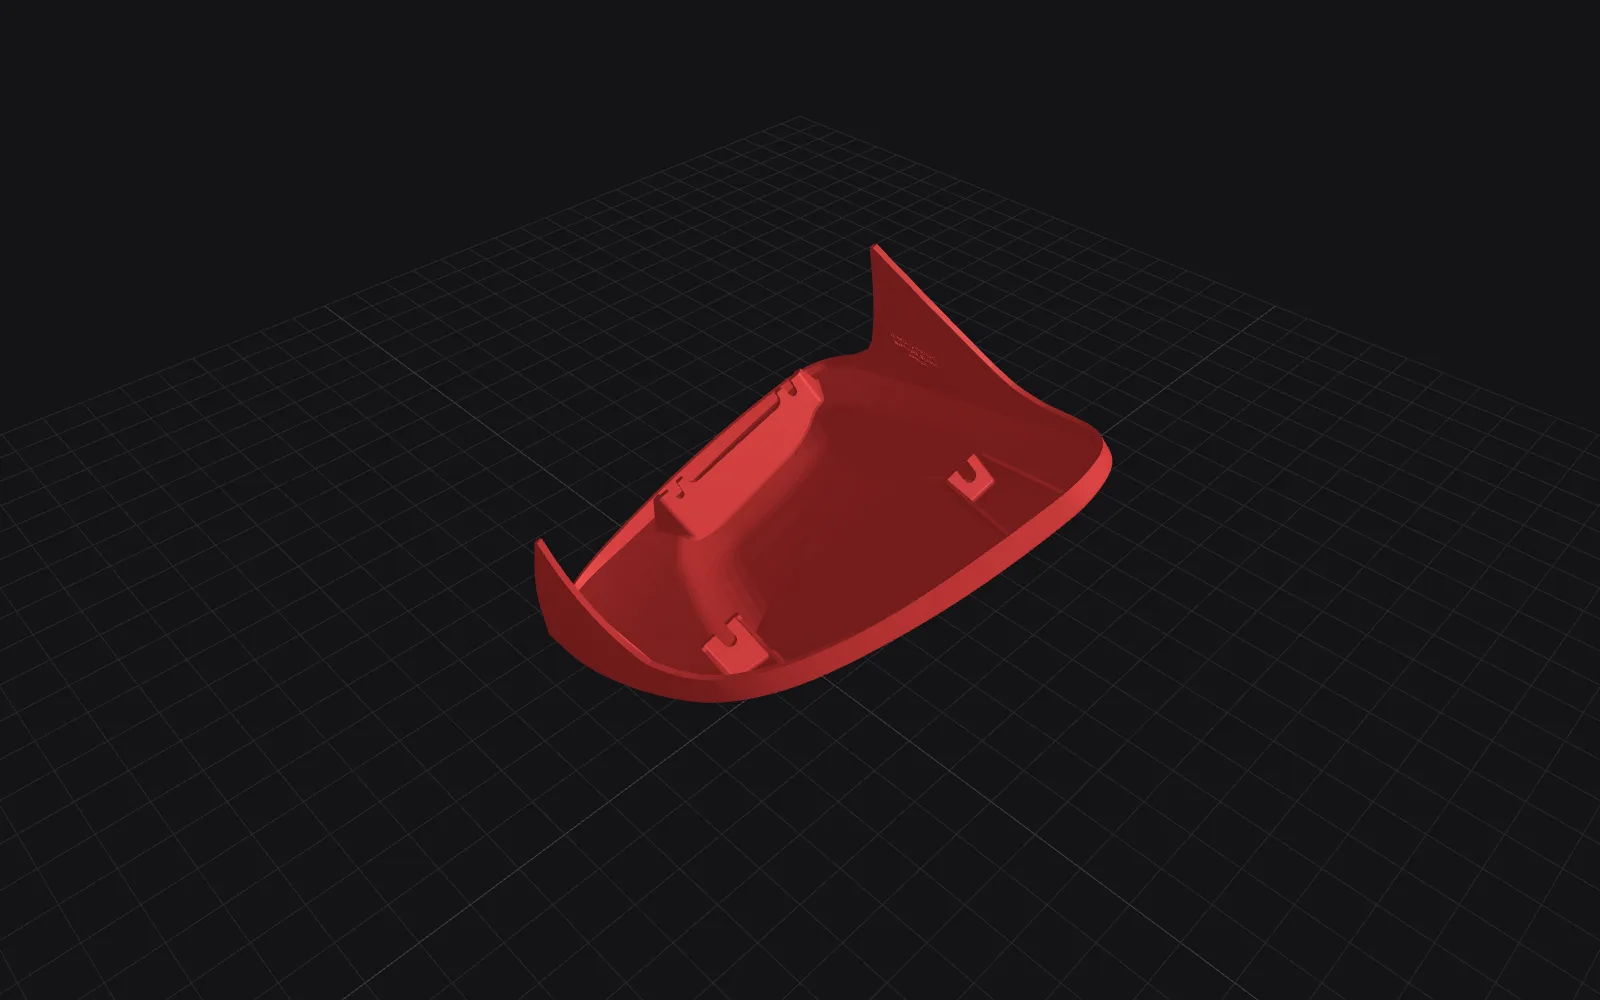
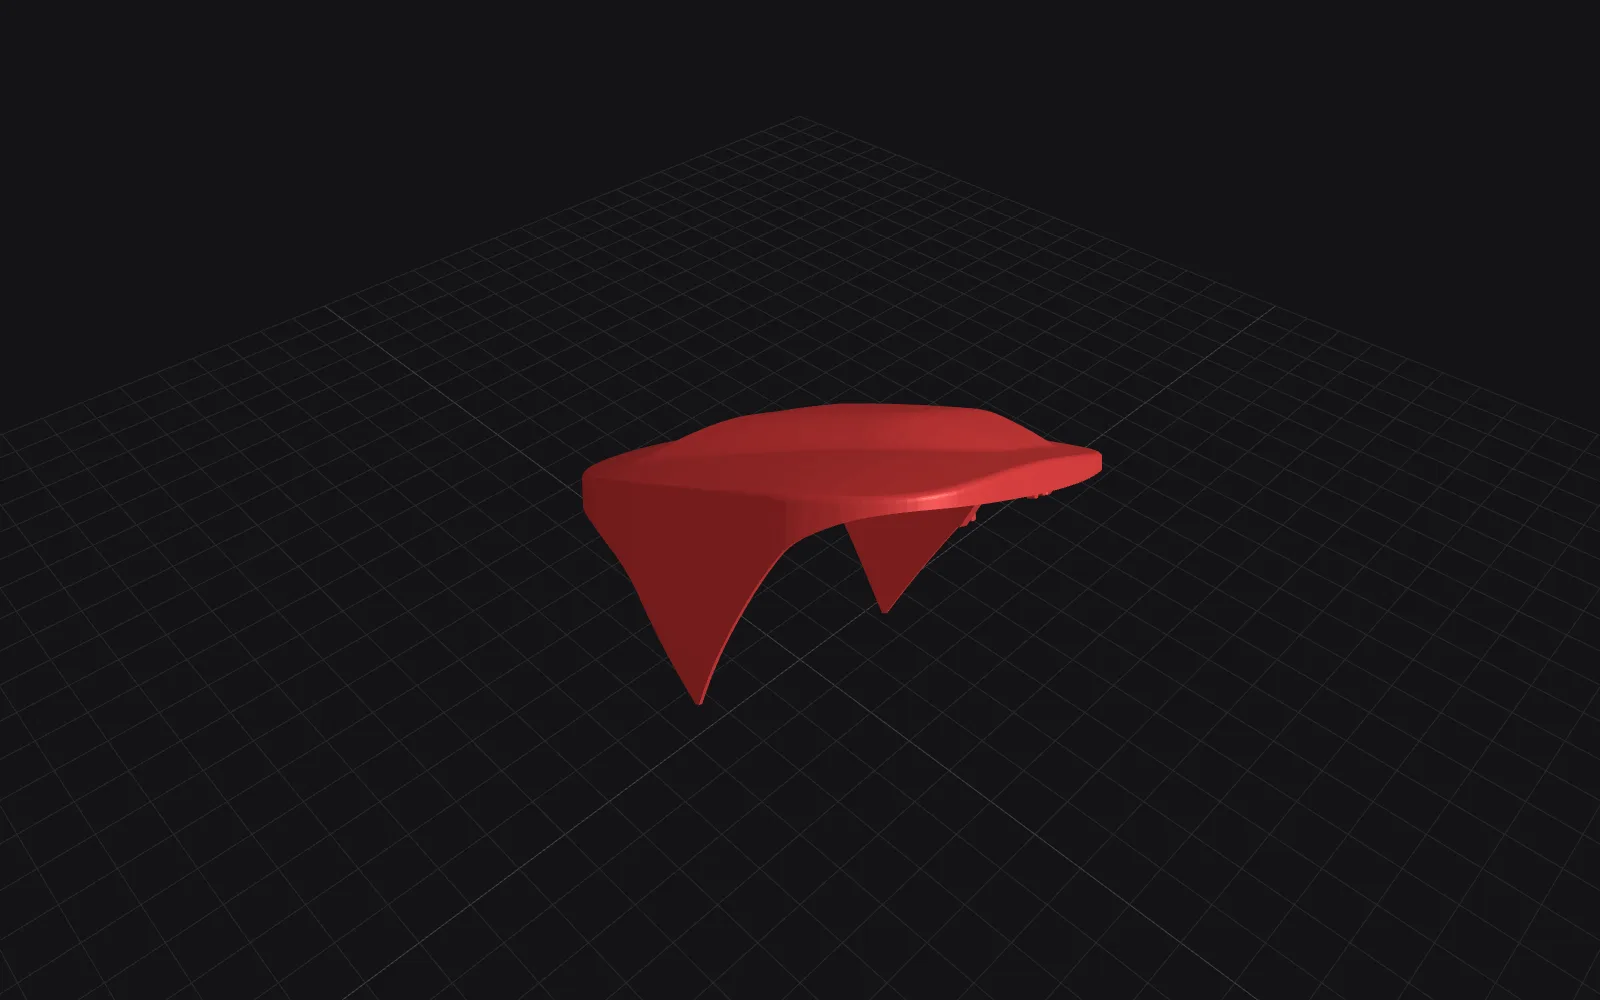
Add a per-model Flip checkbox, and turn the headlight cover over
The axis fix turns every model the same way — Z-up → Y-up — which lands
five of the six flat and the right way up. The vented headlight cover came
out upside down.

Geometry could not have told me that, which is why this is a control rather
than another rule: the part has no flat face anywhere. Loosening the
tolerance from 0.03 to 15 units on a 308-unit part moves its "largest
planar face" from an area of 24 to 9,897 — it is curved in every direction,
so there is no bed face to read an orientation from. Only the eye can judge
it, so the CMS gets the decision.

`flip: true` runs the same conversion backwards: +90° about X instead of
−90°. Both give byte-identical extents — 269 × 263 × 308 either way — so a
flipped model is exactly as flat as it was; only which end of Z counts as up
changes. That is why the checkbox cannot make a model stand up again: there
is no third state that changes the bounding box.

Wired as `data-flip` on the viewer, read alongside `data-src`/`data-ext`,
so the field is one boolean through schema, CMS widget, template and script.

Verified: the headlight's silhouette changes (576×457 → 518×300) and its
mass distribution inverts top/bottom (0.43/0.57 → 0.54/0.46), i.e. the part
genuinely turned over rather than merely re-rendering; all six pages still
draw a canvas with no console errors; all six previews still 1600×1000 and
100% accent red; built-site Lighthouse 100/100/100/100 with CLS 0 on the
index and on the headlight page.

Changed region(s): [[0.3125, 0.248, 0.7188, 0.713]]

diff --git a/src/content.config.ts b/src/content.config.ts
@@ -52,6 +52,12 @@ const models = defineCollection({
     // rehosting someone else's work under a licence that may not allow it.
     // With no file the detail page skips the 3D viewer and leads with `files`.
     file: z.string().optional(),
+    // The viewer applies one axis fix to every model (Z-up → Y-up), which is
+    // right for CAD exports but not for a file modelled the other way round:
+    // the vented headlight cover came out upside down. Ticking this turns that
+    // part over. It stays lying flat either way — only which face is up
+    // changes — so the checkbox cannot make a model stand up again.
+    flip: z.boolean().default(false),
     preview: z.string().default(''),
     category: z.string().default(''),
     downloads: z.number().default(0),

diff --git a/src/content/models/fd3s-headlight-covers.md b/src/content/models/fd3s-headlight-covers.md
@@ -6,6 +6,7 @@ description: >-
   sealed panel with the vent cut through, so air can pass the headlight
   housing. Free to download and print.
 file: /models/fd3s-headlight-cover-left.stl
+flip: true
 preview: /images/models/fd3s-headlight-covers.webp
 category: exterior
 downloads: 0
